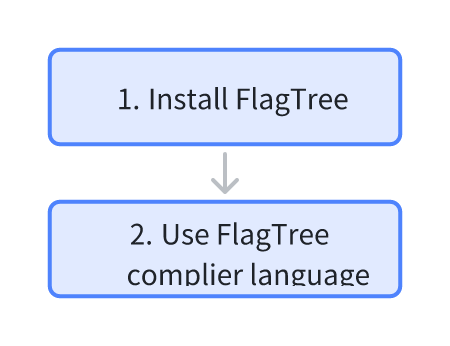
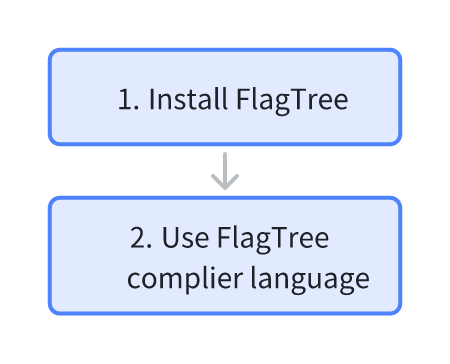
Updated index and image

diff --git a/docs/flagtree_en/FlagTree_overview/workflow.md b/docs/flagtree_en/FlagTree_overview/workflow.md
@@ -1,5 +1,5 @@
 # Workflow
 
-The following diagram briefly demonstrates how to use FlagGems to generate operators.
+The following diagram briefly demonstrates how to use FlagTree to generate operators.
 
 ![alt text](../assets/images/flagtree-workflow.png)
